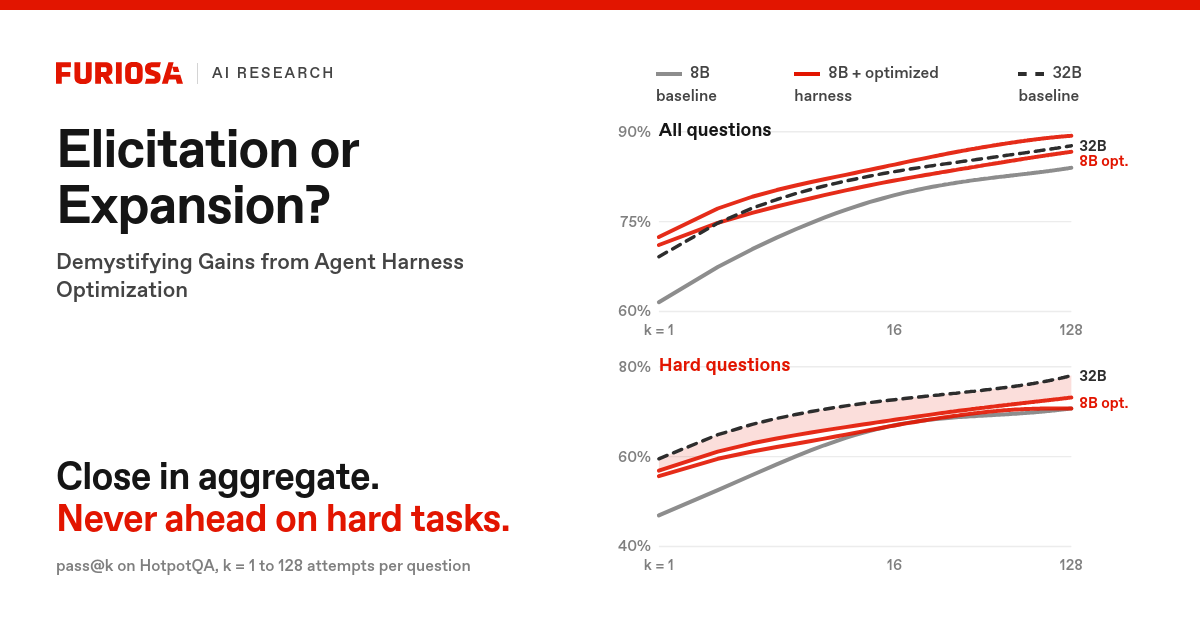
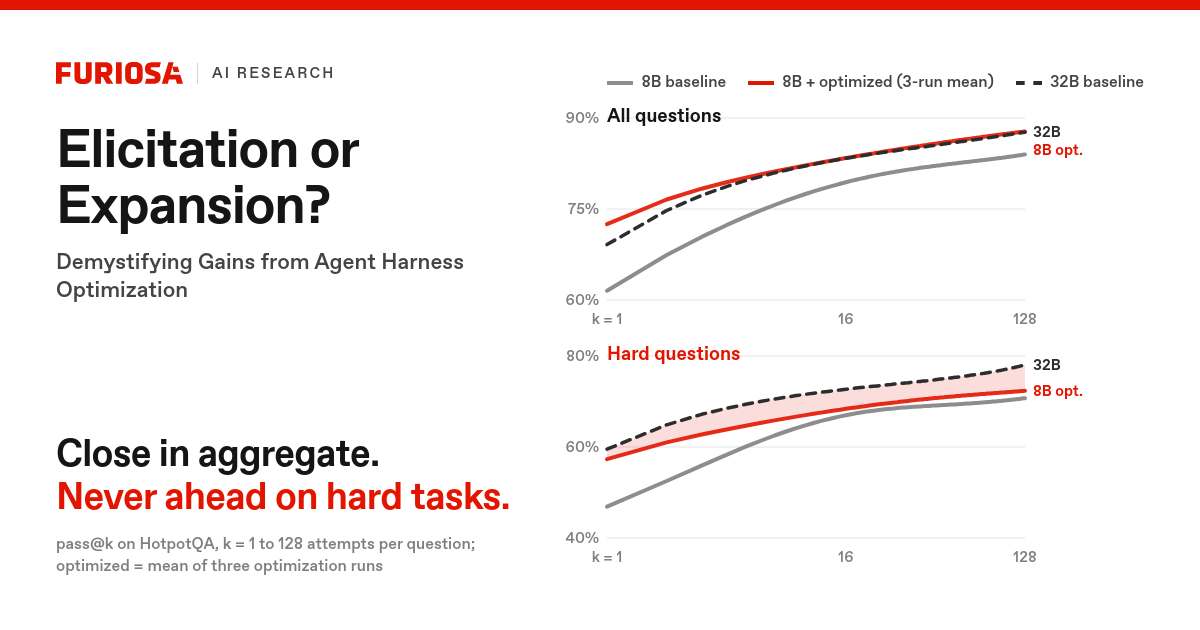
fix: change preview image

diff --git a/elicitation-or-expansion/index.html b/elicitation-or-expansion/index.html
@@ -18,7 +18,7 @@
 <meta property="og:image" content="https://furiosa-air.github.io/elicitation-or-expansion/static/images/social_preview.png">
 <meta property="og:image:width" content="1200">
 <meta property="og:image:height" content="630">
-<meta property="og:image:alt" content="Close in aggregate. Never ahead on hard tasks. HotpotQA pass@k curves for Qwen3-8B with optimized harnesses and Qwen3-32B.">
+<meta property="og:image:alt" content="Close in aggregate. Never ahead on hard tasks. HotpotQA pass@k curves for Qwen3-8B with optimized harnesses (mean of three optimization runs) and Qwen3-32B, on all and hard questions.">
 <meta name="twitter:card" content="summary_large_image">
 <meta name="twitter:image" content="https://furiosa-air.github.io/elicitation-or-expansion/static/images/social_preview.png">
 <link rel="stylesheet" href="static/css/colors_and_type.css">
